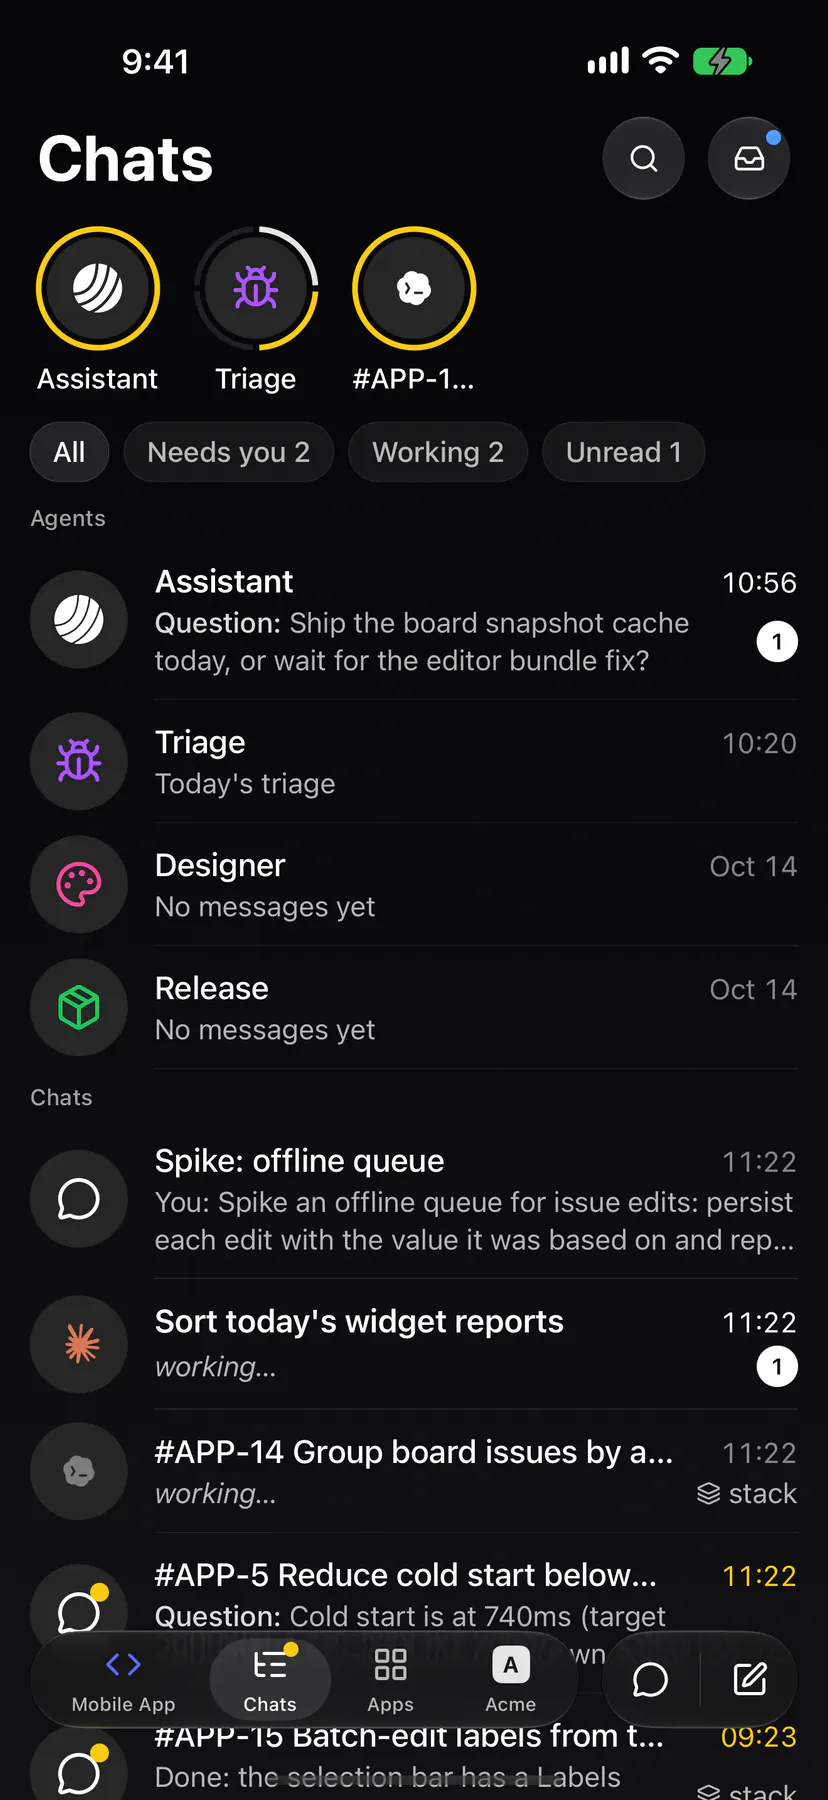
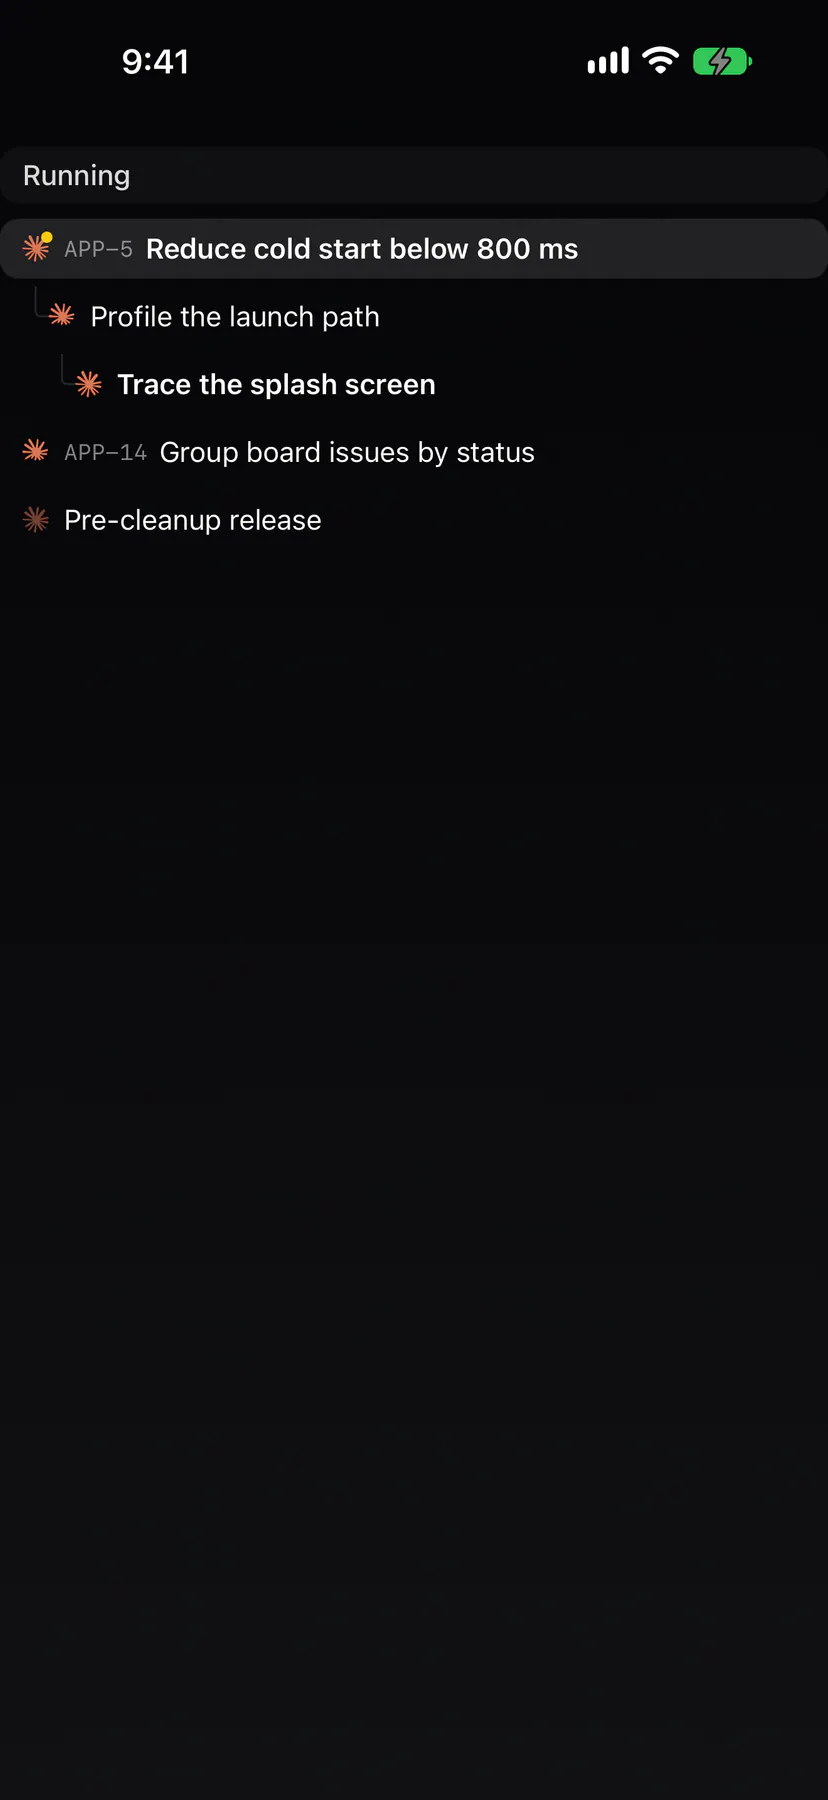
Phone session-row specimen: sg_session-row draws THE session row ×4, not the Chats list
iOS + Android capture-only specimens (ThreadCardsScreen) draw the web
island's / desktop's board row for row on the real SessionRow: the Running
band over the APP-5 tree (needs you, a working child, an idle grandchild),
APP-14 working, an ended root, the first row lit. Android gains the
SessionRow composable (ui/components/SessionRow.kt, iOS ExpUI twin). The
live Chats-tab walks for sg_session-row are gone; view-catalog notes and
the styleguide entry's phone status follow. Shots: session-row ios+android.

diff --git a/apps/ios/Exponential/UI/Components/ThreadCardsScreen.swift b/apps/ios/Exponential/UI/Components/ThreadCardsScreen.swift
@@ -8,13 +8,13 @@ import SwiftUI
 /// card (a workflow mid-review, a task list, a subagent), the Script card and
 /// the Comment card, each from the REAL view over the shared models. Capture
 /// only: the styleguide suite opens one with `-uiTestingStyleguide
-/// <work-card|script-card|comment-call-card|…|ask-dock|dock-card|plan-card|mention-pill|voice-call|call-controls|settings-voice|device-readiness|work-screen|session-xref|pr-checks>` (`sg_<name>`).
+/// <work-card|script-card|comment-call-card|…|ask-dock|dock-card|plan-card|mention-pill|voice-call|call-controls|settings-voice|device-readiness|work-screen|session-xref|pr-checks|session-row>` (`sg_<name>`).
 struct ThreadCardsScreen: View {
     let kind: String
 
     @Environment(AppDependencies.self) private var deps
 
-    static let kinds: Set<String> = ["work-card", "script-card", "comment-call-card", "trace", "code-block", "thread-strip", "ask-dock", "dock-card", "plan-card", "chat-list", "phone-tab-bar", "phone-board-menu", "phone-page-header", "chat-transcript", "chat-menus", "schedule-picker", "mention-pill", "app-consent", "voice-call", "call-controls", "chat-selection", "settings-voice", "settings-mcp", "device-readiness", "work-screen", "voice-meeting", "voice-meeting-consent", "session-xref", "sealed-locked", "pr-row", "pr-checks"]
+    static let kinds: Set<String> = ["work-card", "script-card", "comment-call-card", "trace", "code-block", "thread-strip", "ask-dock", "dock-card", "plan-card", "chat-list", "phone-tab-bar", "phone-board-menu", "phone-page-header", "chat-transcript", "chat-menus", "schedule-picker", "mention-pill", "app-consent", "voice-call", "call-controls", "chat-selection", "settings-voice", "settings-mcp", "device-readiness", "work-screen", "voice-meeting", "voice-meeting-consent", "session-xref", "sealed-locked", "pr-row", "pr-checks", "session-row"]
 
     var body: some View {
         if kind == "voice-meeting" || kind == "voice-meeting-consent" {
@@ -89,6 +89,7 @@ struct ThreadCardsScreen: View {
                     case "device-readiness": DeviceReadinessSpecimens()
                     case "work-screen": WorkScreenSpecimens()
                     case "pr-row": PrRowSpecimens()
+                    case "session-row": SessionRowSpecimens()
                     case "pr-checks": PrChecksSpecimens()
                     default: workCards
                     }
@@ -355,6 +356,42 @@ private struct PrRowSpecimens: View {
         .padding(.horizontal, -16)
         .accessibilityElement(children: .contain)
         .accessibilityIdentifier("pr-row-specimen")
+    }
+}
+
+/// Thread 20b7fdc2 `session-row` (web `apps/styleguide` entry `session-row`,
+/// desktop `session_row.rs`, row for row): THE SessionRow under the Running
+/// caption — the APP-5 tree (needs you, a working child, an idle grandchild),
+/// APP-14 working, an ended root; bold = unread, the first row lit. The lead
+/// is the session's run mark (`ThreadSessionChipMark`, the card state).
+private struct SessionRowSpecimens: View {
+    private static let rows: [(identifier: String?, title: String, depth: Int, state: SessionState, unread: Bool)] = [
+        ("APP-5", "Reduce cold start below 800 ms", 0, .needsYou, true),
+        (nil, "Profile the launch path", 1, .working, false),
+        (nil, "Trace the splash screen", 2, .idle, true),
+        ("APP-14", "Group board issues by status", 0, .working, false),
+        (nil, "Pre-cleanup release", 0, .done, false),
+    ]
+
+    var body: some View {
+        let guides = TreeGuides.compute(depths: Self.rows.map(\.depth))
+        VStack(alignment: .leading, spacing: 4) {
+            GlassSectionBand("Running")
+            ForEach(Array(Self.rows.enumerated()), id: \.offset) { index, row in
+                SessionRow(
+                    identifier: row.identifier,
+                    title: row.title,
+                    guide: guides[index],
+                    active: index == 0,
+                    unread: row.unread
+                ) {
+                    ThreadSessionChipMark(state: row.state)
+                }
+            }
+        }
+        .padding(.horizontal, -16)
+        .accessibilityElement(children: .contain)
+        .accessibilityIdentifier("session-row-specimen")
     }
 }
 

diff --git a/apps/android/app/src/main/java/com/exponential/app/ui/styleguide/ThreadCardsScreen.kt b/apps/android/app/src/main/java/com/exponential/app/ui/styleguide/ThreadCardsScreen.kt
@@ -37,6 +37,7 @@ import com.exponential.app.ui.session.ComposerRepliesRow
 import com.exponential.app.ui.session.ScriptCardView
 import com.exponential.app.ui.session.WorkCardView
 import com.exponential.app.ui.thread.SessionCard
+import com.exponential.app.ui.components.SessionRow
 import com.exponential.app.ui.components.SessionXref
 import com.exponential.app.ui.components.PrList
 import com.exponential.app.ui.components.PrListRow
@@ -64,6 +65,8 @@ enum class ThreadCardsKind(val testId: String) {
     SessionXref("session-xref-screen"),
     /** EXP-1553: THE PR row (web's `pr-row` entry, shot sg_pr-row). */
     PrRow("pr-row-specimen"),
+    /** Thread 20b7fdc2: THE session row (web's `session-row` entry, shot sg_session-row). */
+    SessionRow("session-row-specimen"),
     /** #EXP-1611: the header Merge pill in its four check states + the open
      *  Checks submenu over pr-checks.json `specimen` (shot sg_pr-checks). */
     PrChecks("pr-checks-specimen"),
@@ -87,7 +90,7 @@ fun ThreadCardsScreen(kind: ThreadCardsKind) {
                     .statusBarsPadding()
                     .verticalScroll(rememberScrollState())
                     // The PR list's bands run edge to edge, like the list's.
-                    .padding(horizontal = if (kind == ThreadCardsKind.PrRow) 0.dp else 16.dp, vertical = 72.dp),
+                    .padding(horizontal = if (kind == ThreadCardsKind.PrRow || kind == ThreadCardsKind.SessionRow) 0.dp else 16.dp, vertical = 72.dp),
                 verticalArrangement = Arrangement.spacedBy(16.dp),
             ) {
                 when (kind) {
@@ -98,6 +101,7 @@ fun ThreadCardsScreen(kind: ThreadCardsKind) {
                     ThreadCardsKind.PlanCard -> PlanCardSpecimens()
                     ThreadCardsKind.SessionXref -> SessionXrefSpecimens()
                     ThreadCardsKind.PrRow -> PrRowSpecimens()
+                    ThreadCardsKind.SessionRow -> SessionRowSpecimens()
                     ThreadCardsKind.PrChecks -> PrChecksSpecimens()
                 }
             }
@@ -240,6 +244,39 @@ private fun PrRowSpecimens() {
                 ),
             ),
         )
+    }
+}
+
+/** Thread 20b7fdc2 `session-row` (web's styleguide entry, iOS's
+ *  SessionRowSpecimens, desktop `session_row.rs`, row for row): THE
+ *  SessionRow under the Running caption — the APP-5 tree (needs you, a
+ *  working child, an idle grandchild), APP-14 working, an ended root; bold =
+ *  unread, the first row lit. The lead = the session's run mark. */
+@Composable
+private fun SessionRowSpecimens() {
+    data class Spec(val identifier: String?, val title: String, val depth: Int, val state: SessionTree.SessionState, val unread: Boolean = false)
+    val rows = listOf(
+        Spec("APP-5", "Reduce cold start below 800 ms", 0, SessionTree.SessionState.NeedsYou, unread = true),
+        Spec(null, "Profile the launch path", 1, SessionTree.SessionState.Working),
+        Spec(null, "Trace the splash screen", 2, SessionTree.SessionState.Idle, unread = true),
+        Spec("APP-14", "Group board issues by status", 0, SessionTree.SessionState.Working),
+        Spec(null, "Pre-cleanup release", 0, SessionTree.SessionState.Done),
+    )
+    val guides = com.exponential.app.domain.TreeGuides.compute(rows.map { it.depth })
+    Column {
+        SectionHeader("Running")
+        rows.forEachIndexed { index, row ->
+            SessionRow(
+                title = row.title,
+                identifier = row.identifier,
+                depth = row.depth,
+                guide = guides.getOrNull(index),
+                active = index == 0,
+                unread = row.unread,
+            ) {
+                AgentRunMark(agent = "claude", state = row.state, size = 14.dp, badgeSize = 6.dp)
+            }
+        }
     }
 }
 

diff --git a/apps/android/app/src/main/java/com/exponential/app/ui/components/SessionRow.kt b/apps/android/app/src/main/java/com/exponential/app/ui/components/SessionRow.kt
@@ -1,0 +1,87 @@
+package com.exponential.app.ui.components
+
+import androidx.compose.foundation.clickable
+import androidx.compose.foundation.layout.Arrangement
+import androidx.compose.foundation.layout.Box
+import androidx.compose.foundation.layout.Row
+import androidx.compose.foundation.layout.fillMaxWidth
+import androidx.compose.foundation.layout.height
+import androidx.compose.foundation.layout.padding
+import androidx.compose.foundation.layout.size
+import androidx.compose.material3.MaterialTheme
+import androidx.compose.material3.Text
+import androidx.compose.runtime.Composable
+import androidx.compose.ui.Alignment
+import androidx.compose.ui.Modifier
+import androidx.compose.ui.platform.testTag
+import androidx.compose.ui.text.font.FontFamily
+import androidx.compose.ui.text.font.FontWeight
+import androidx.compose.ui.text.style.TextOverflow
+import androidx.compose.ui.unit.dp
+import com.exponential.app.domain.ListItem
+import com.exponential.app.domain.TreeGuide
+import com.exponential.app.ui.theme.TextEmphasis
+import com.exponential.app.ui.theme.flatRow
+
+// Thread 20b7fdc2: THE session row, x4 (web `@exp/ui` SessionRow, desktop
+// `run_rows::run_row`, iOS ExpUI `SessionRow.swift`; geometry =
+// `list-item.json`). ONE line: [tree guides][lead at 12 + 14·depth]
+// [mono id · title]. The lead is the session's run mark (the host hands it
+// in); a bold title = unread. No fold chevron, no trailing chevron.
+
+const val SESSION_ROW_TAG = "session-row"
+
+/** One session row: 32dp (`list-item.json` small). */
+@Composable
+fun SessionRow(
+    title: String,
+    modifier: Modifier = Modifier,
+    identifier: String? = null,
+    depth: Int = 0,
+    /** This row's connector geometry (`TreeGuides.compute`). */
+    guide: TreeGuide? = null,
+    active: Boolean = false,
+    unread: Boolean = false,
+    onClick: (() -> Unit)? = null,
+    testTag: String = SESSION_ROW_TAG,
+    lead: @Composable () -> Unit,
+) {
+    Row(
+        modifier = modifier
+            .fillMaxWidth()
+            .height(ListItem.SMALL_DP.dp)
+            .testTag(testTag)
+            .treeGuides(guide)
+            .flatRow(active)
+            .then(if (onClick == null) Modifier else Modifier.clickable(onClick = onClick))
+            .padding(start = ListItem.leadX(depth).dp, end = ListItem.BASE_DP.dp),
+        verticalAlignment = Alignment.CenterVertically,
+        horizontalArrangement = Arrangement.spacedBy(ListItem.GAP_DP.dp),
+    ) {
+        Box(Modifier.size(ListItem.MARK_DP.dp), contentAlignment = Alignment.Center) { lead() }
+        Row(
+            modifier = Modifier.weight(1f),
+            verticalAlignment = Alignment.CenterVertically,
+            horizontalArrangement = Arrangement.spacedBy(6.dp),
+        ) {
+            if (!identifier.isNullOrEmpty()) {
+                Text(
+                    identifier,
+                    style = MaterialTheme.typography.labelMedium,
+                    fontFamily = FontFamily.Monospace,
+                    color = MaterialTheme.colorScheme.onSurface.copy(alpha = TextEmphasis.Tertiary),
+                    maxLines = 1,
+                    softWrap = false,
+                )
+            }
+            Text(
+                title,
+                style = MaterialTheme.typography.bodyMedium,
+                fontWeight = if (unread) FontWeight.SemiBold else null,
+                color = MaterialTheme.colorScheme.onSurface,
+                maxLines = 1,
+                overflow = TextOverflow.Ellipsis,
+            )
+        }
+    }
+}

diff --git a/apps/ios/ExponentialUITests/StyleguideScreenshots.swift b/apps/ios/ExponentialUITests/StyleguideScreenshots.swift
@@ -43,10 +43,9 @@ import XCTest
 /// `sg_run-changes` and `sg_trigger-editor`. EXP-1309 then moved every
 /// Threads v2 shot off its hand-written specimen onto the LIVE app over the
 /// seed web/desktop photograph, so they cannot drift from it again:
-///   * `sg_agent-home` = the dawn home the app lands on (`agent-page`), and
-///     `sg_session-row` = the SAME screen gated on THE session row in its
-///     Running band (web/desktop photograph a styleguide island of the row;
-///     the phone's one honest instance of it is the seeded band);
+///   * `sg_agent-home` = the dawn home the app lands on (`agent-page`)
+///     (`sg_session-row` is a specimen since thread 20b7fdc2: the island's
+///     rows, `walkSpecimens`; it used to photograph the Chats tab);
 ///   * `sg_threads` = the Threads tab (Agents band, Needs you · Running ·
 ///     Recent, each row's quiet word off its pull requests);
 ///     `sg_agent-channel` = the Triage agent's channel off its Agents row;
@@ -233,20 +232,6 @@ final class StyleguideScreenshots: XCTestCase {
             "The home drew no composer"
         )
         snapshot("sg_agent-home", settle: 2)
-
-        // ── sg_session-row: THE session row (EXP-1248/1309) ─────────────────
-        // EXP-1316: Home lost its Running band — the rows live on the Threads
-        // tab. Gate on the cold-start thread's row there (it waits on me),
-        // with the private spike and the busy ones beside it.
-        let threadsTab = app.buttons["tab-threads"]
-        expect(threadsTab, within: Wait.sync, "Threads tab missing")
-        threadsTab.tap()
-        expect(
-            threadRow(app, containing: Self.coldStartThreadTitle),
-            within: Wait.sync,
-            "The Threads tab never listed the cold-start thread — reseed with `bun run seed:screenshots`"
-        )
-        snapshot("sg_session-row", settle: 2)
 
         // ── sg_apps · sg_app: the team's Apps off the Threads header, then
         // the Team dashboard editor (VAPP-110, DEMO_APP_SLUG) on its Chat tab.
@@ -1198,7 +1183,7 @@ final class StyleguideScreenshots: XCTestCase {
         "chat-list", "phone-tab-bar", "phone-board-menu", "phone-page-header", "chat-transcript",
         "chat-menus", "chat-selection", "schedule-picker", "mention-pill", "voice-call",
         "call-controls", "device-readiness", "session-xref", "story-ring", "story-viewer",
-        "story-tab", "sealed-locked", "plan-page", "pr-row", "pr-checks",
+        "story-tab", "sealed-locked", "plan-page", "pr-row", "pr-checks", "session-row",
     ]
 
     /// A scoped run that wants only specimens (`--views sealed-locked`)
@@ -1233,6 +1218,8 @@ final class StyleguideScreenshots: XCTestCase {
             case "sealed-locked": snapshot("sg_sealed-locked", settle: 2)
             case "plan-page": snapshot("sg_plan-page", settle: 2)
             case "pr-row": snapshot("sg_pr-row", settle: 2)
+            // Thread 20b7fdc2: THE session row (web's `session-row` island).
+            case "session-row": snapshot("sg_session-row", settle: 2)
             // #EXP-1611: the four Merge pills + the open Checks submenu.
             case "pr-checks": snapshot("sg_pr-checks", settle: 2)
             default: snapshot("sg_schedule-picker", settle: 2)

diff --git a/apps/android/app/src/androidTest/java/com/exponential/app/StyleguideScreenshotsTest.kt b/apps/android/app/src/androidTest/java/com/exponential/app/StyleguideScreenshotsTest.kt
@@ -169,8 +169,7 @@ import tools.fastlane.screengrab.locale.LocaleTestRule
  *
  * EXP-1309: every Threads v2 surface WITH a seed counterpart is walked live,
  * so it reads the same seed web, desktop and iOS photograph and cannot drift:
- * sg_agent-home (the landing, the bottom bar over it), sg_session-row (THE
- * row on the Threads tab, EXP-1311/1316: the home has no Running band), sg_composer-menu +
+ * sg_agent-home (the landing, the bottom bar over it), sg_composer-menu +
  * sg_chat-issues (the home composer's "+" and Implement issue), sg_threads
  * (the Threads tab), sg_agent-channel (Triage), sg_thread (the cold-start
  * thread), sg_session ("Profile the launch path", its pending question in
@@ -229,6 +228,8 @@ class StyleguideScreenshotsTest {
             "sg_session-xref",
             // EXP-1553: THE PR row (a tree, a stack, an unlinked PR).
             "sg_pr-row",
+            // Thread 20b7fdc2: THE session row (web's `session-row` island).
+            "sg_session-row",
             // #EXP-1611: the Merge pill's check states + the Checks submenu.
             "sg_pr-checks",
             // Thread 58cb32df: the Chats pieces + the minutes schedule.
@@ -470,26 +471,11 @@ class StyleguideScreenshotsTest {
         flow.settle()
         flow.screenshot("sg_agent-home")
 
-        // --- sg_session-row: THE session row (EXP-1248/1311). EXP-1316: the
-        // home lost its Running band, so the row's phone instance is the
-        // Threads tab's, gated on the seeded cold-start thread waiting on me
-        // (web/desktop photograph a styleguide island).
-        //
         // EXP-1558: from here on the walk is a run of [step]s, each starting
         // from a tab: a step that fails is retried once, then recorded, and
         // the walk carries on, so one flaky screen no longer costs every shot
         // after it (the lane keeps the shots taken; the test still fails).
-        step("session-row") {
-            composeRule.onNode(hasTestTag("tab-threads")).performClick()
-            flow.waitFor(hasTestTag(SessionTree.ListCopy.TEST_ID_LIST), NAV_TIMEOUT)
-            flow.waitFor(
-                hasTestTag(Chats.TestIds.CHAT_ROW) and
-                    hasText(COLD_START_THREAD_TITLE, substring = true),
-                SYNC_TIMEOUT,
-            )
-            flow.settle()
-            flow.screenshot("sg_session-row")
-        }
+        // (Thread 20b7fdc2: sg_session-row is a capture-only specimen now.)
 
         // The app lands on the Agent tab; the board shots start on Issues.
         // --- Board: wait out session fetch + first Electric sync, then let the
@@ -1731,6 +1717,11 @@ class StyleguideScreenshotsTest {
         // `pr-row` entry, by the real PrList / StackRail.
         showThreadCards(ThreadCardsKind.PrRow)
         flow.screenshot("sg_pr-row")
+
+        // --- sg_session-row (thread 20b7fdc2): THE session row under the
+        // Running caption — web's `session-row` island, by the real SessionRow.
+        showThreadCards(ThreadCardsKind.SessionRow)
+        flow.screenshot("sg_session-row")
 
         // --- sg_pr-checks (#EXP-1611): THE header Merge pill in its four
         // check states + the `…`'s Checks submenu pushed open over

diff --git a/apps/styleguide/src/entries/session-row.tsx b/apps/styleguide/src/entries/session-row.tsx
@@ -141,13 +141,13 @@ export const entry: StyleguideEntry = {
       state: `ok`,
       symbol: `SessionRow`,
       file: `apps/ios/ExpUI/Sources/SessionRow.swift`,
-      note: `the home's Running band and the Threads tab (ThreadRowLabel, UI/MyWork/ThreadsView.swift)`,
+      note: `the thread tree sheet (UI/Thread/ThreadMenuSheet.swift); shot = the capture-only SessionRowSpecimens (ThreadCardsScreen.swift)`,
     },
     android: {
       state: `ok`,
-      symbol: `ThreadListRow`,
-      file: `apps/android/app/src/main/java/com/exponential/app/ui/threads/ThreadsScreen.kt`,
-      note: `the home's Running band and the Threads tab`,
+      symbol: `SessionRow`,
+      file: `apps/android/app/src/main/java/com/exponential/app/ui/components/SessionRow.kt`,
+      note: `shot = the capture-only SessionRowSpecimens (ui/styleguide/ThreadCardsScreen.kt)`,
     },
   },
   island: () => <SessionRowSpecimen />,
